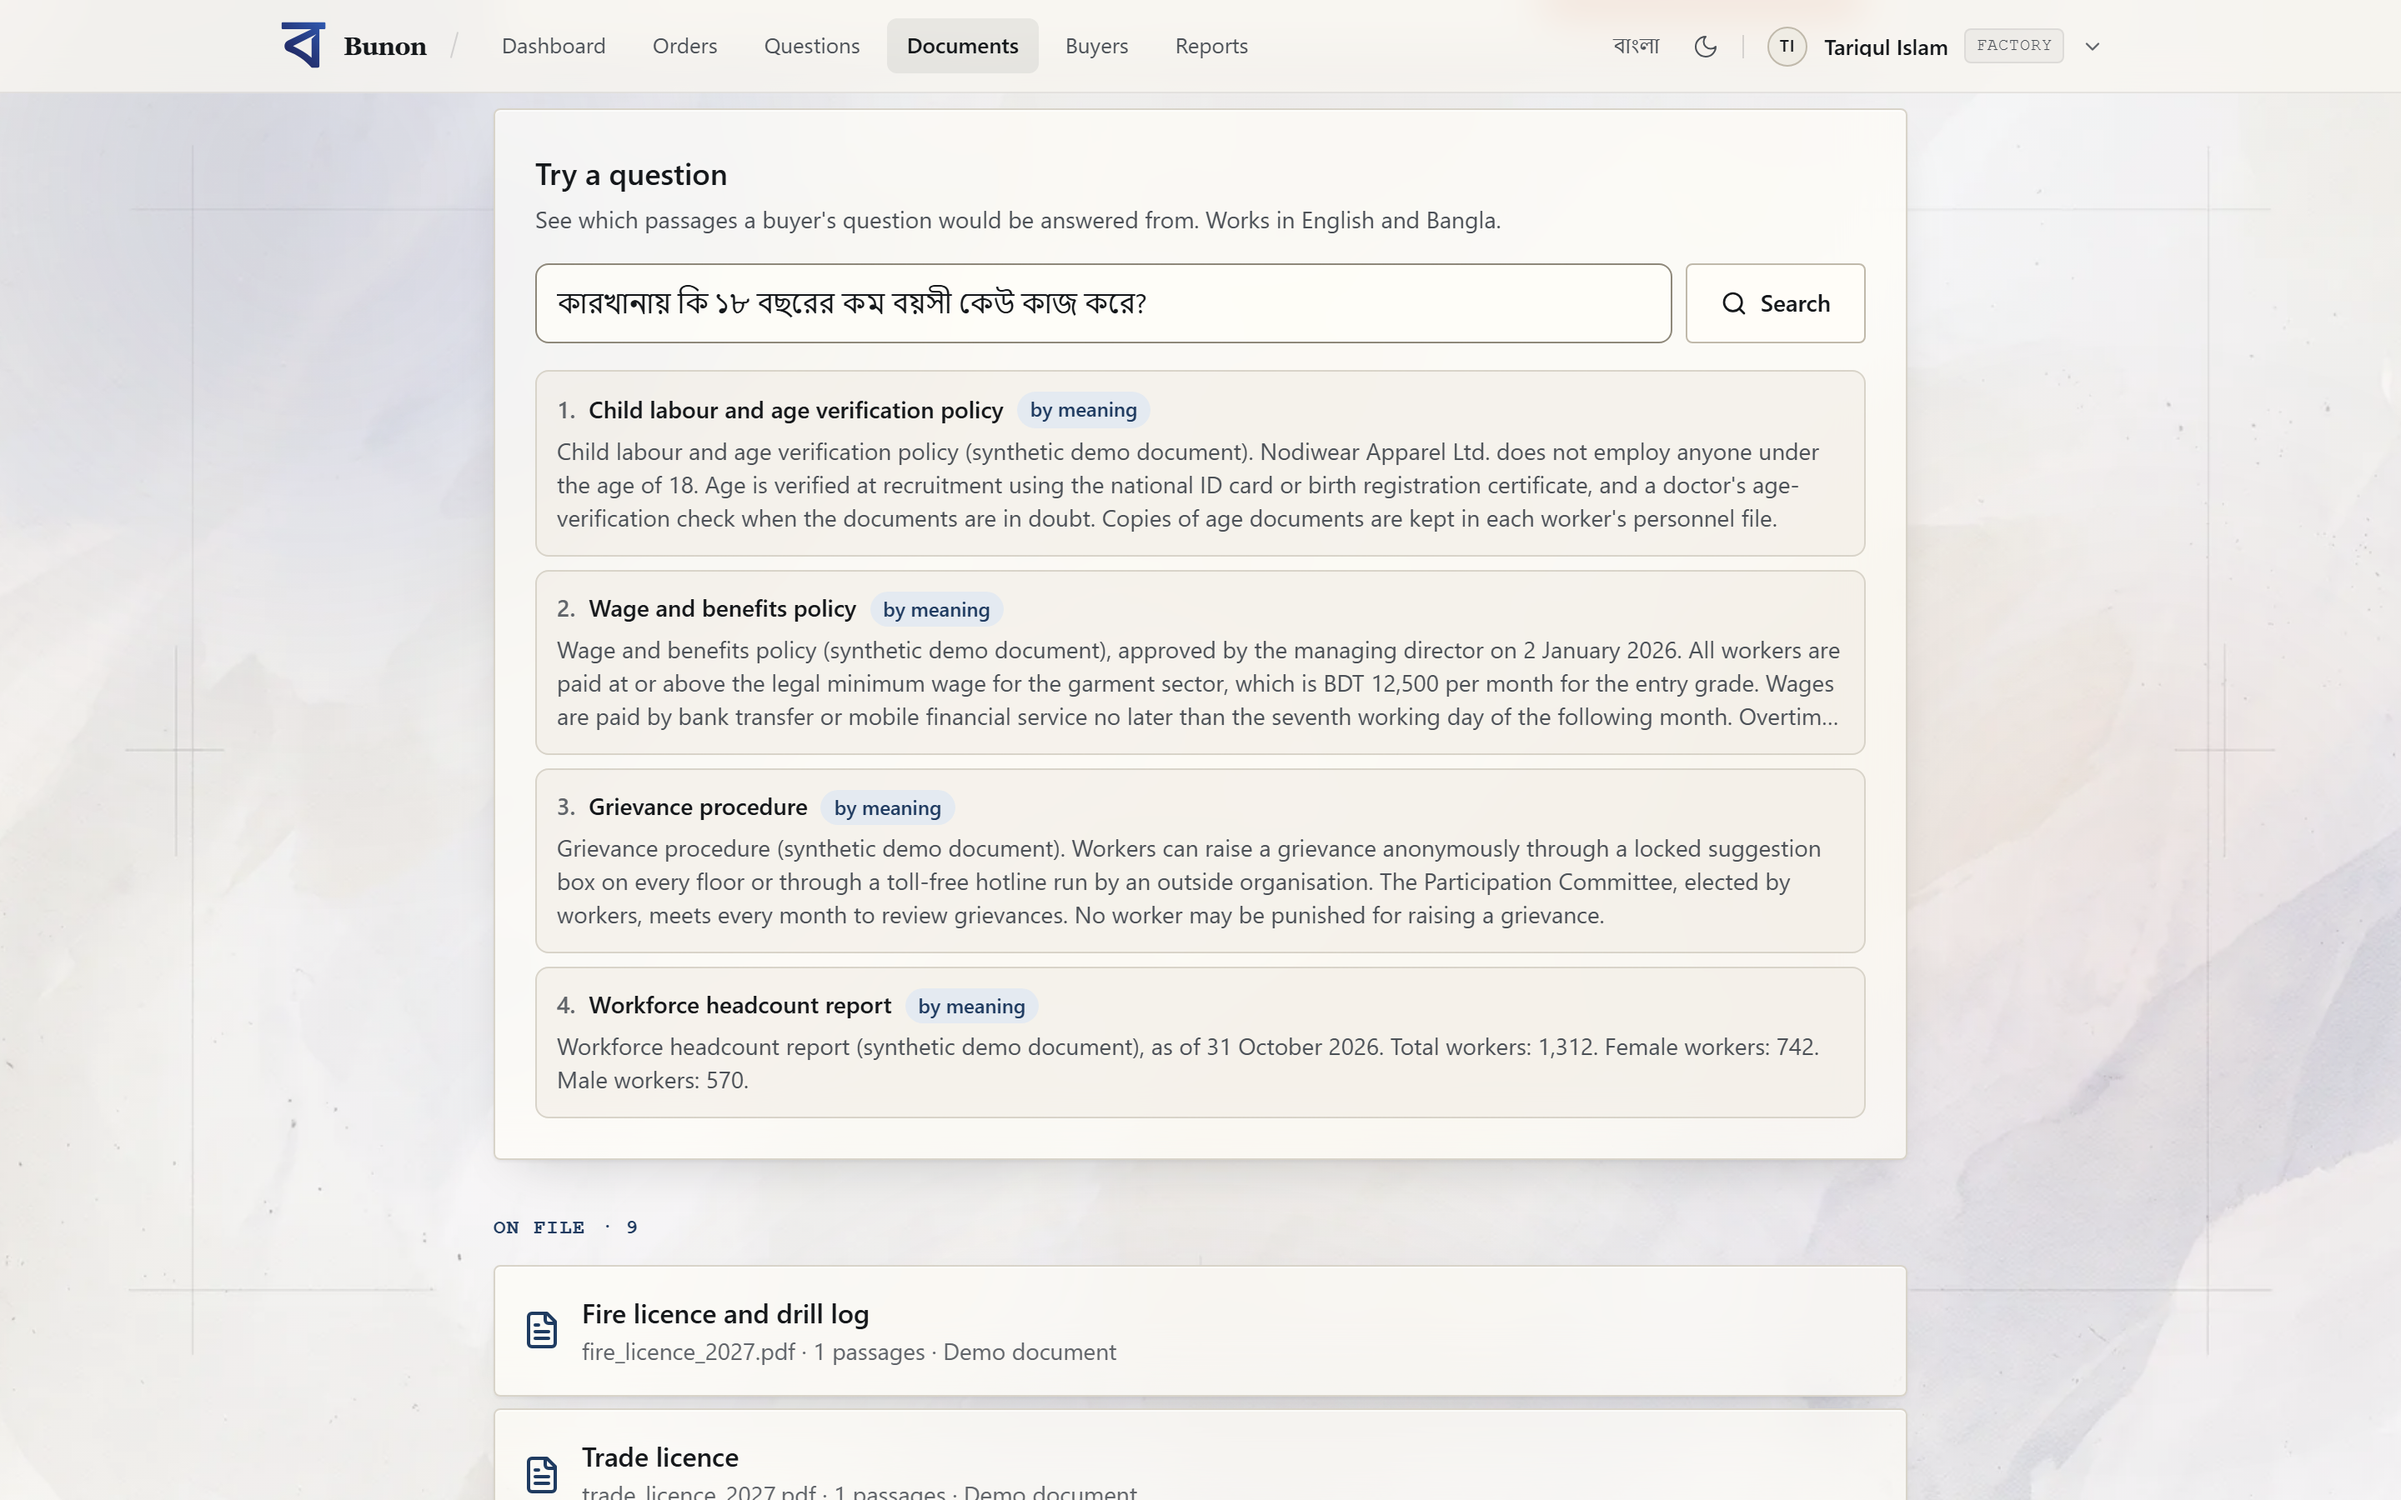
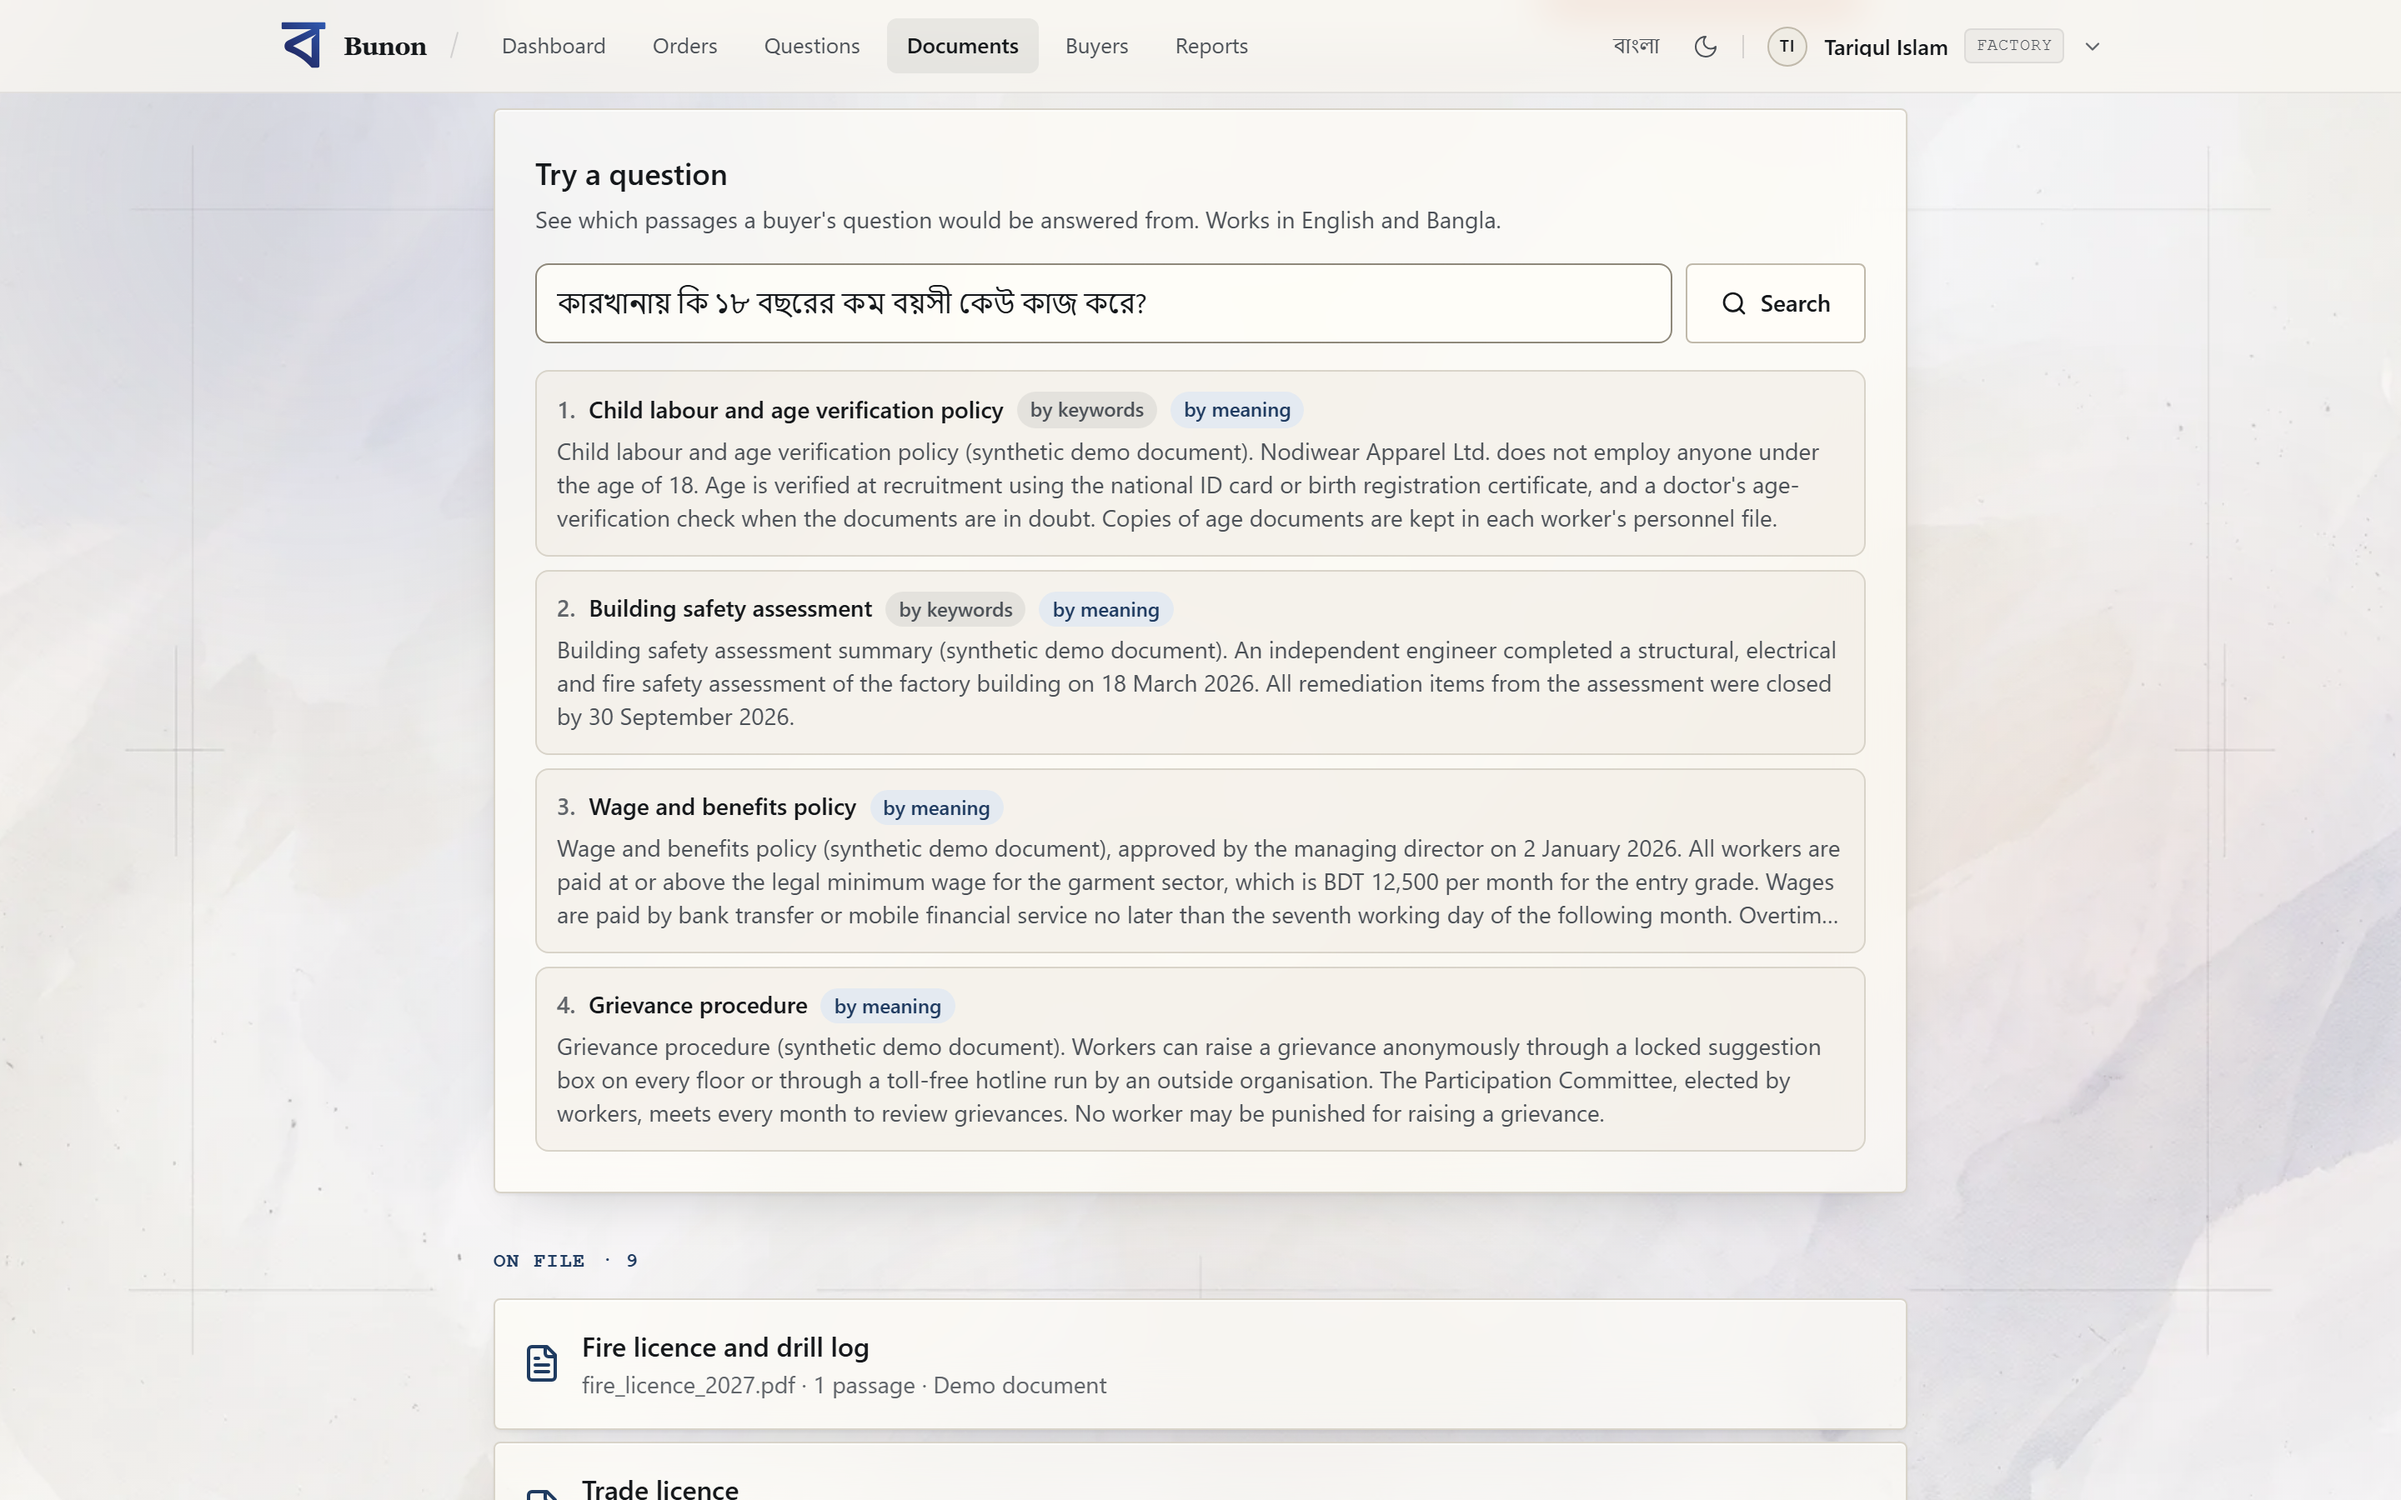
Video: retake the documents search from the live site
Shows the singular "1 passage" and the Bangla question now found by
keywords as well as by meaning.

diff --git a/video/src/script.ts b/video/src/script.ts
@@ -132,7 +132,7 @@ export const SEGMENTS: Segment[] = [
     lines: [
       {
         text: "Drafts are personal: hybrid search covers only that factory's documents, in English and Bangla.",
-        visual: { kind: "shot", src: "shots/documents-search.png", url: "bunon-ten.vercel.app/factory/documents", role: "Factory", focus: [0.215, 0.24, 0.565, 0.51], zoom: "in" },
+        visual: { kind: "shot", src: "shots/documents-search.png", url: "bunon-ten.vercel.app/factory/documents", role: "Factory", focus: [0.215, 0.24, 0.565, 0.53], zoom: "in" },
       },
       { text: "Qwen drafts the answer: on the factory's own computer, or on Cloudflare for our online demo.", visual: { kind: "models" } },
       { text: "Then the checks: the quote must exist word for word, and a second model must agree.", visual: { kind: "checks" } },
